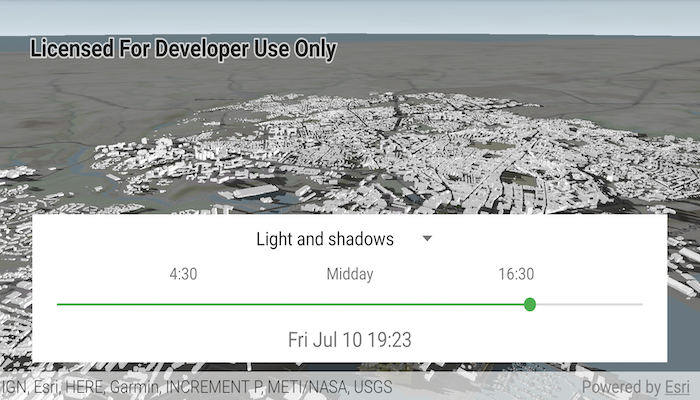
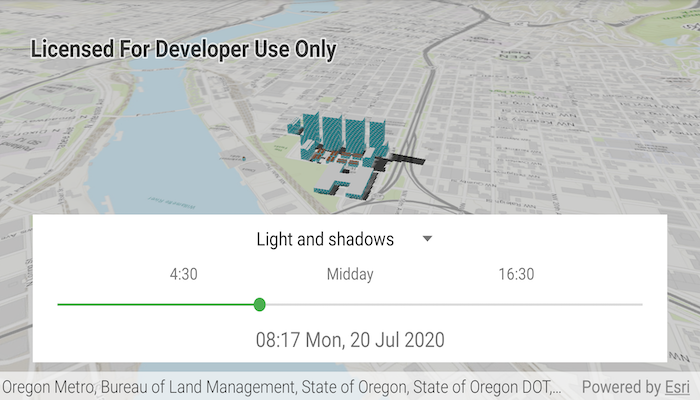
update data and basemap

diff --git a/kotlin/realistic-lighting-and-shadows/src/main/java/com/esri/arcgisruntime/sample/realisticlightingandshadows/MainActivity.kt b/kotlin/realistic-lighting-and-shadows/src/main/java/com/esri/arcgisruntime/sample/realisticlightingandshadows/MainActivity.kt
@@ -56,11 +56,11 @@ class MainActivity : AppCompatActivity() {
     }
 
     val buildingsLayer =
-      ArcGISSceneLayer("https://tiles.arcgis.com/tiles/P3ePLMYs2RVChkJx/arcgis/rest/services/DevB_BuildingShells/SceneServer")
+      ArcGISSceneLayer("https://tiles.arcgis.com/tiles/P3ePLMYs2RVChkJx/arcgis/rest/services/DevA_BuildingShells/SceneServer")
 
-    // create a scene with a topographic basemap, a world elevation source, and a layer showing planned development in Portland, Oregon
+    // create a scene with a vector basemap, a world elevation source, and a layer showing planned development in Portland, Oregon
     sceneView.scene = ArcGISScene().apply {
-      basemap = Basemap.createImagery()
+      basemap = Basemap.createTopographic()
       baseSurface = Surface().apply {
         elevationSources.add(ArcGISTiledElevationSource("http://elevation3d.arcgis.com/arcgis/rest/services/WorldElevation3D/Terrain3D/ImageServer"))
       }
